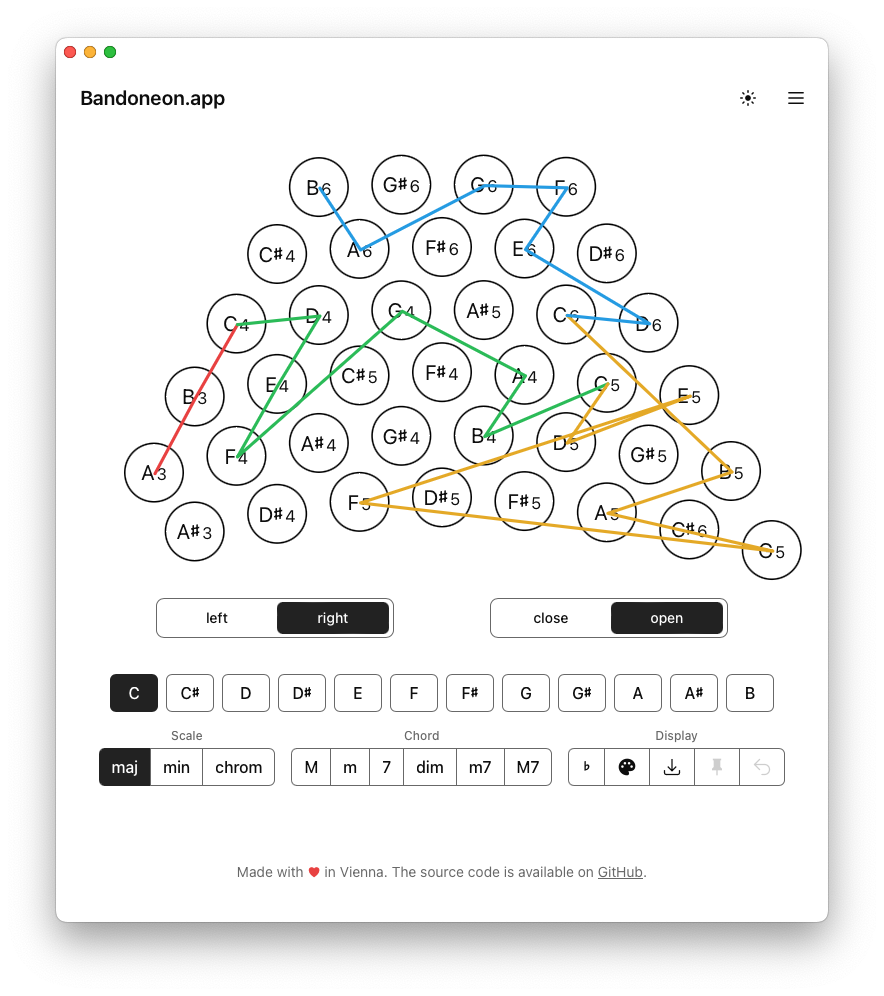
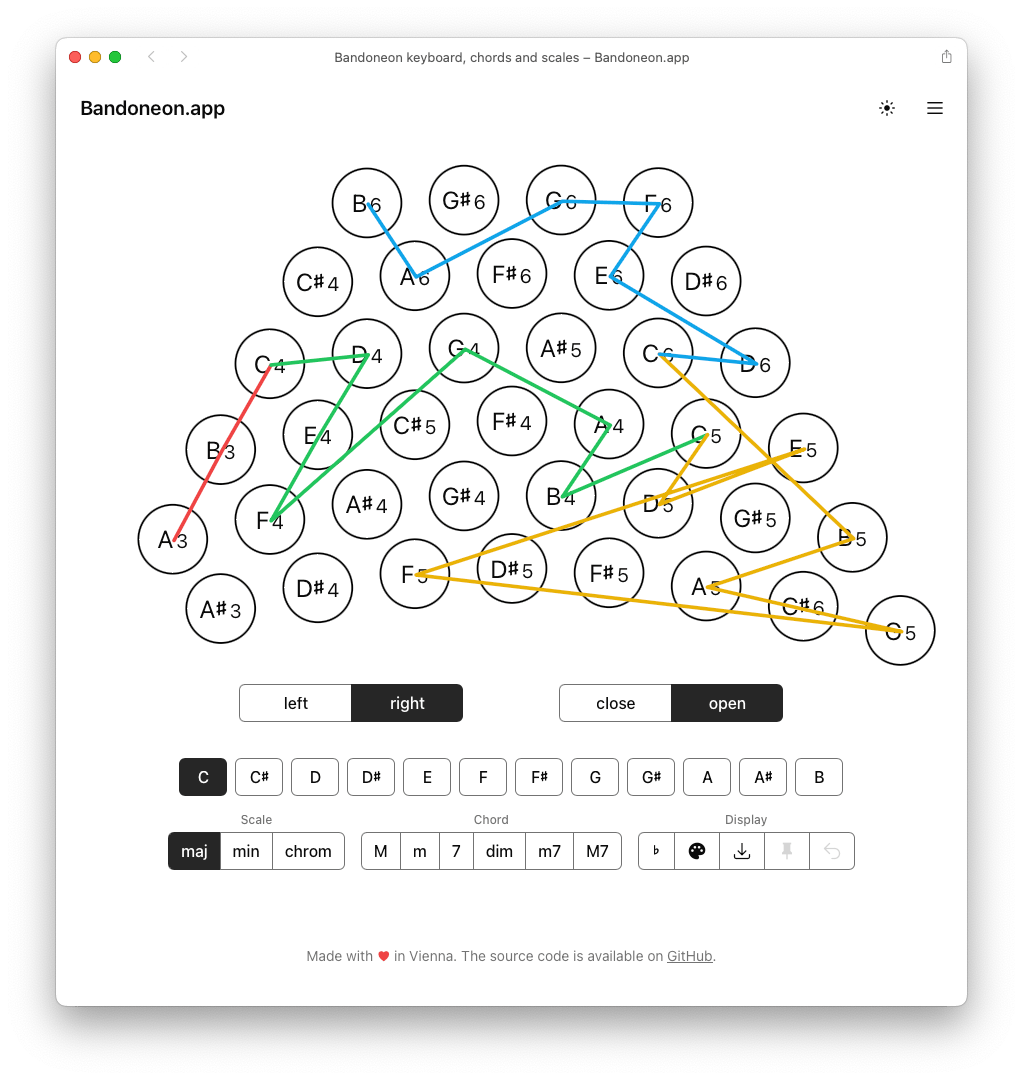
feat: increase size of keyboard

Changed region(s): [[0.0305, 0.0311, 0.9468, 0.9337], [0.3054, 0.0311, 0.6719, 0.0622], [0.0611, 0.0311, 0.1527, 0.0622]]

diff --git a/src/pages/game.vue b/src/pages/game.vue
@@ -1,5 +1,5 @@
 <template>
-  <div class="mx-auto max-w-screen-md p-6">
+  <div class="mx-auto flex w-full max-w-[896px] flex-1 items-center px-6 pt-6">
     <SvgKeyboard>
       <SvgButton
         v-for="([x, y, tonal], idx) in positions"
@@ -15,6 +15,8 @@
         "
       />
     </SvgKeyboard>
+  </div>
+  <div class="mx-auto max-w-screen-md px-6 pb-6">
     <NavVariant :readonly="currentPosition > 0" />
     <NavTonic />
     <!-- Medium mode: display octave buttons -->

diff --git a/src/pages/index.vue b/src/pages/index.vue
@@ -1,5 +1,5 @@
 <template>
-  <div class="mx-auto max-w-screen-md p-6">
+  <div class="mx-auto flex w-full max-w-[896px] flex-1 items-center px-6 pt-6">
     <SvgKeyboard ref="keyboardEl">
       <SvgButton
         v-for="([x, y, tonal], idx) in keyPositions"
@@ -18,6 +18,8 @@
         :d="path"
       />
     </SvgKeyboard>
+  </div>
+  <div class="mx-auto max-w-screen-md px-6 pb-6">
     <NavVariant />
     <NavTonic />
     <NavDisplay

diff --git a/src/App.vue b/src/App.vue
@@ -1,9 +1,7 @@
 <template>
   <div class="flex min-h-screen flex-col">
     <AppHeader />
-    <div class="flex-1">
-      <RouterView />
-    </div>
+    <RouterView />
     <AppFooter />
   </div>
 </template>

diff --git a/src/pages/[...path].vue b/src/pages/[...path].vue
@@ -1,3 +1,3 @@
 <template>
-  <div class="mx-auto max-w-screen-md p-6 text-center">Not Found</div>
+  <div class="mx-auto max-w-screen-md flex-1 p-16 text-center">Not Found</div>
 </template>
